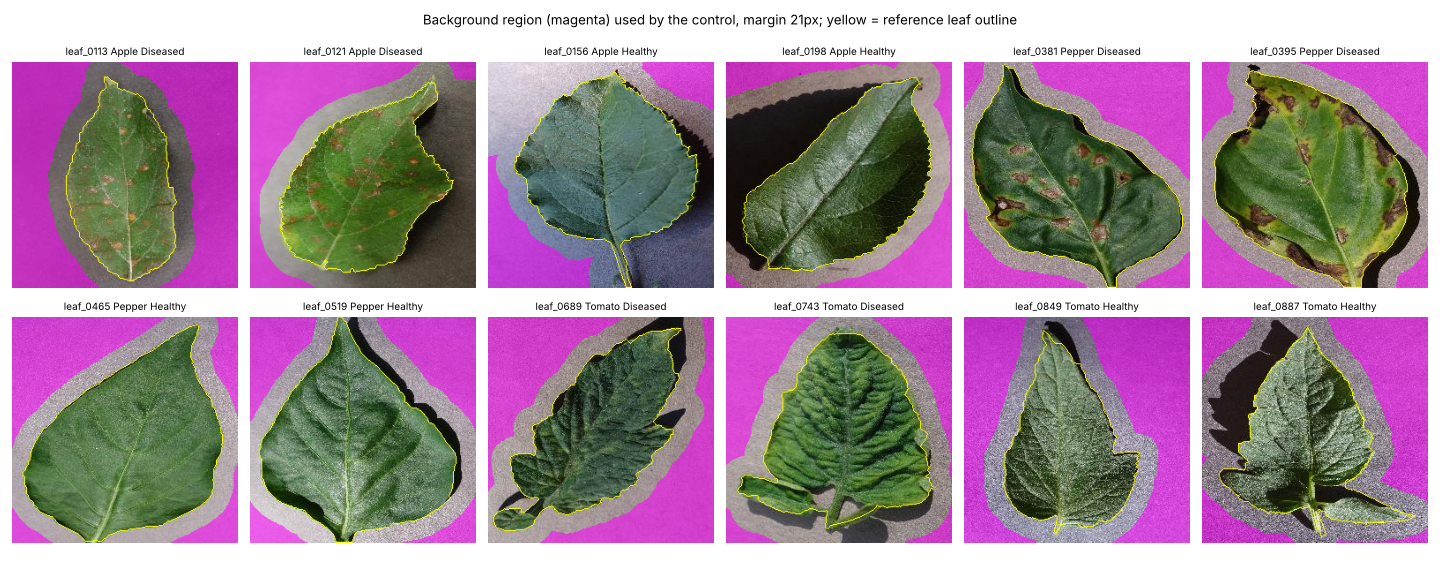
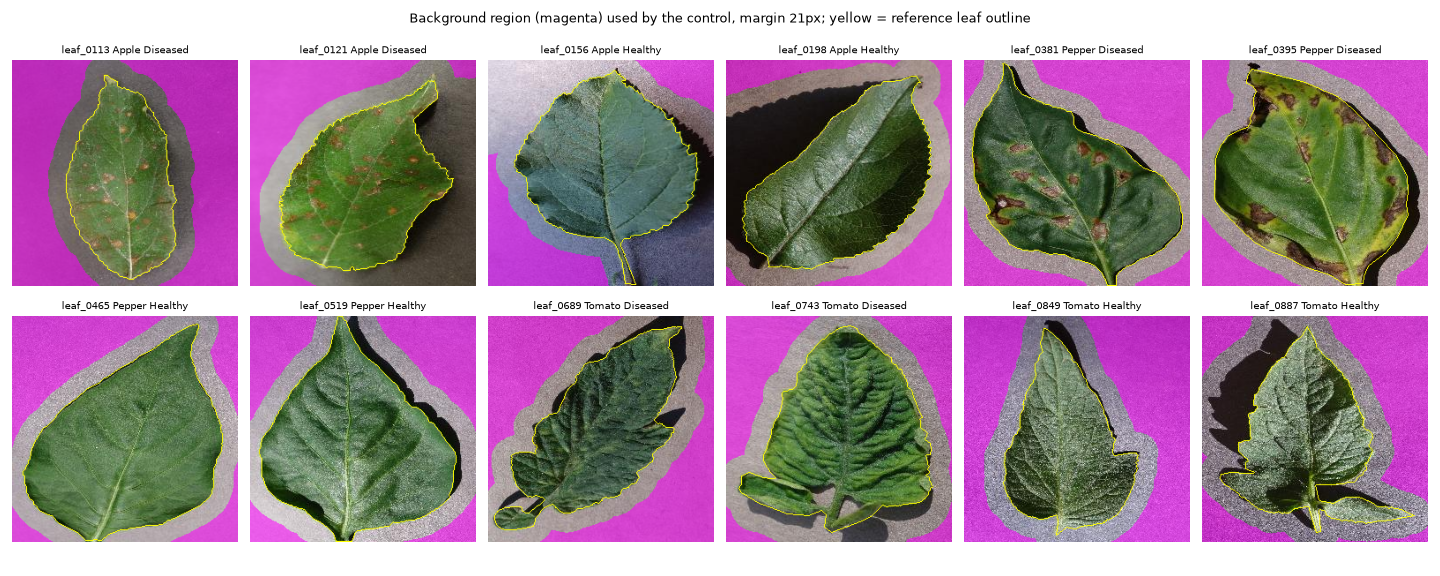
Refresh background control with frozen segmentation

diff --git a/background_control.py b/background_control.py
@@ -66,7 +66,7 @@ def cv_macro_f1(features, rows):
 
 
 def leakage(rows, parameters, margin, root):
-    """Share of each reference leaf outline's pixels that fall inside the background region."""
+    """Fraction of background-region pixels covered by the reference leaf outline."""
     records = []
     for row in rows:
         if row.get("annotation_partition") != "development":
